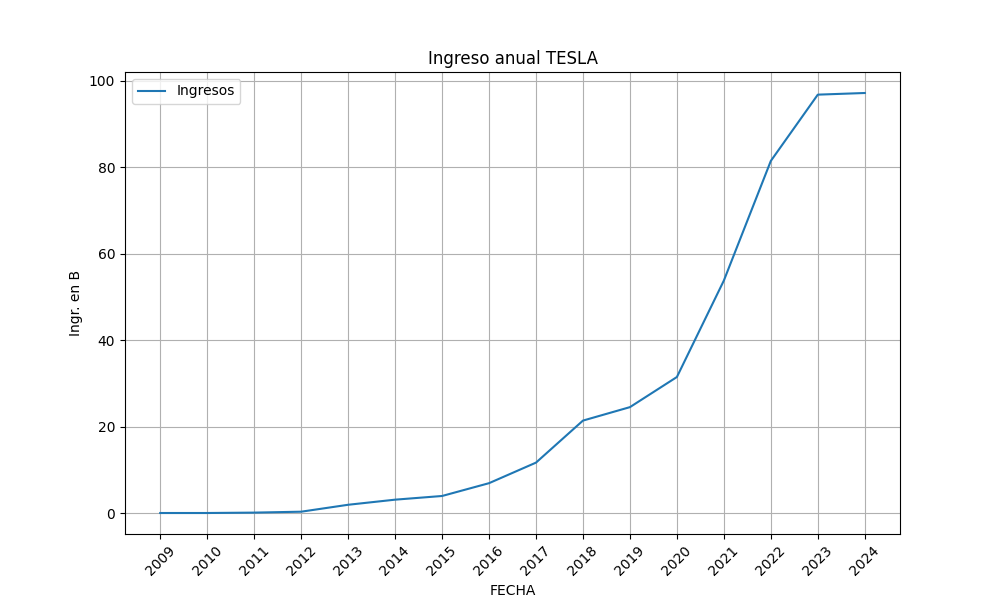
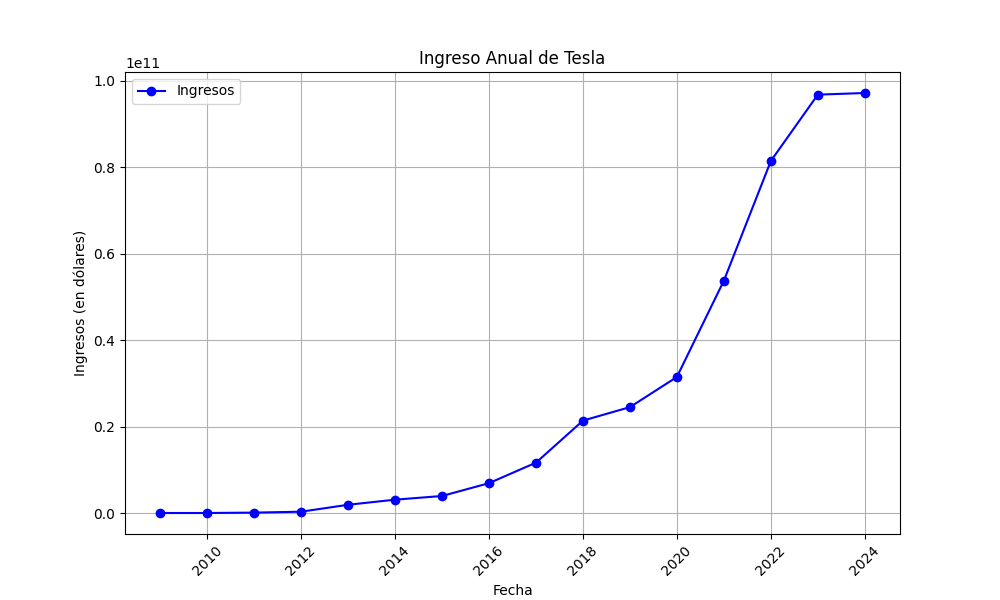
final

diff --git a/src/app.py b/src/app.py
@@ -1,58 +1,114 @@
 import os
-from bs4 import BeautifulSoup
 import requests
-import time
 import sqlite3
+import time
+import pandas as pd
 import matplotlib.pyplot as plt
 import seaborn as sns
-import pandas as pd
+from bs4 import BeautifulSoup
 
+# URL de la fuente de datos
 url = "https://companies-market-cap-copy.vercel.app/index.html"
 
-response = requests.get(url)
-if response.status_code == 200:
-    html = response.text
-else:
-    print(f"Error en la solicitud: {response.status_code}")
+# Realizar la solicitud HTTP con manejo de errores
+try:
+    response = requests.get(url, timeout=10)
+    response.raise_for_status()
+except requests.exceptions.RequestException as e:
+    print(f"Error en la solicitud: {e}")
     exit()
-soup = BeautifulSoup(html, "html.parser")
+
+# Procesar HTML con BeautifulSoup
+soup = BeautifulSoup(response.text, "html.parser")
 tabla = soup.find('table')
+
+if tabla is None:
+    print("No se encontró la tabla en la página.")
+    exit()
+
 filas = tabla.find_all("tr")
 data = []
-for row in filas[1:]: 
+
+for row in filas[1:]:  # Saltar la primera fila (encabezados)
     cols = row.find_all("td")
+    if len(cols) < 2:  # Verificar que haya suficientes columnas
+        continue
     fecha = cols[0].text.strip()
     ingresos = cols[1].text.strip()
     data.append([fecha, ingresos])
-df = pd.DataFrame(data, columns=['Fecha', 'Ingresos']).sort_values('Fecha')
 
+# Crear DataFrame ordenado por fecha
+df = pd.DataFrame(data, columns=['Fecha', 'Ingresos'])
 
+# Función para limpiar y convertir ingresos a float
 def limpiador(valor):
-    if "B" in valor:
-        editar = float(valor.replace("B", "").replace("$", "").replace(",", ""))
-        return editar   
+    try:
+        valor = valor.replace("$", "").replace(",", "")
+        if "B" in valor:
+            return float(valor.replace("B", "")) * 1e9  # Convertir a número real (billones)
+        elif "M" in valor:
+            return float(valor.replace("M", "")) * 1e6  # Convertir a millones
+        else:
+            return float(valor)
+    except ValueError:
+        return None  # Manejo de errores
+
 df["Ingresos"] = df["Ingresos"].apply(limpiador)
+df.dropna(inplace=True)  # Eliminar filas con valores inválidos
+
+# Convertir fechas a datetime para mejor visualización
+df["Fecha"] = pd.to_datetime(df["Fecha"])
+
+# Conectar a la base de datos SQLite
 bd = sqlite3.connect('basededatospractica.db')
 cursor = bd.cursor()
+
+# Crear tabla con `fecha` como PRIMARY KEY para evitar duplicados
 cursor.execute("""
 CREATE TABLE IF NOT EXISTS ingresos (
-    fecha TEXT,
+    fecha TEXT PRIMARY KEY,
     ingresos REAL
 )
 """)
+
 for index, row in df.iterrows():
-    cursor.execute("INSERT INTO ingresos (fecha, ingresos) VALUES (?, ?)", (row["Fecha"], row["Ingresos"]))
+    cursor.execute("INSERT OR IGNORE INTO ingresos (fecha, ingresos) VALUES (?, ?)", 
+                   (row["Fecha"].strftime("%Y-%m-%d"), row["Ingresos"]))  # Convertir Timestamp a string
+
 bd.commit()
 bd.close()
 
+# Graficar los ingresos
 plt.figure(figsize=(10, 6))
-plt.plot(df["Fecha"], df["Ingresos"], label="Ingresos")
-plt.title('Ingreso anual TESLA')
-plt.xlabel("FECHA")
-plt.ylabel("Ingr. en B")
+plt.plot(df["Fecha"], df["Ingresos"], marker="o", linestyle="-", label="Ingresos", color="b")
+plt.title('Ingreso Anual de Tesla')
+plt.xlabel("Fecha")
+plt.ylabel("Ingresos (en dólares)")
 plt.xticks(rotation=45)
 plt.legend()
 plt.grid(True)
 
+# Guardar la gráfica
 plt.savefig("revenue_plot.png")
+plt.show()
+
+# Gráfico de barras
+plt.figure(figsize=(10, 6))
+plt.bar(df["Fecha"].dt.year, df["Ingresos"], color="skyblue", alpha=0.7)
+plt.xlabel("Año")
+plt.ylabel("Ingresos (en dólares)")
+plt.title("Ingresos de Tesla por Año")
+plt.xticks(rotation=45)
+plt.grid(axis='y', linestyle="--", alpha=0.7)
+plt.savefig("revenue_bar_chart.png")
+plt.show()
+
+# Gráfico de densidad (KDE) para distribución de ingresos
+plt.figure(figsize=(10, 6))
+sns.kdeplot(df["Ingresos"], fill=True, color="purple", alpha=0.5)
+plt.xlabel("Ingresos (en dólares)")
+plt.ylabel("Densidad")
+plt.title("Distribución de los Ingresos de Tesla")
+plt.grid(True)
+plt.savefig("revenue_distribution.png")
 plt.show()
